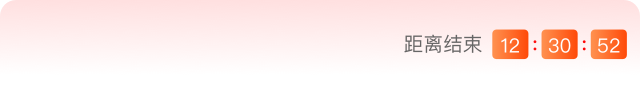
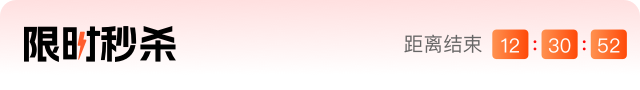
修改秒杀的显示

Changed region(s): [[0.0312, 0.2889, 0.2812, 0.6889]]

diff --git a/src/components/model-seckill/model-seckill-setting.vue b/src/components/model-seckill/model-seckill-setting.vue
@@ -1,15 +1,17 @@
 <template>
     <div class="auxiliary-line-setting">
         <template v-if="type == '1'">
-            <model-seckill-content :value="value.content" :styles="value.style"></model-seckill-content>
+            <model-seckill-content :value="form.content" :styles="form.style" @update:change-theme="change_theme"></model-seckill-content>
         </template>
         <template v-if="type == '2'">
-            <model-seckill-styles :value="value.style" :content="value.content"></model-seckill-styles>
+            <model-seckill-styles :value="form.style" :content="form.content"></model-seckill-styles>
         </template>
     </div>
 </template>
 <script setup lang="ts">
 import { cloneDeep } from 'lodash';
+import { online_url } from '@/utils';
+
 const props = defineProps({
     type: {
         type: String,
@@ -20,64 +22,127 @@ const props = defineProps({
         default: () => ({}),
     },
 });
-const default_data = {
-    topic_color: '',
-    topic_size: 12,
-    head_button_color: '',
-    head_button_size: 12,
-    end_text_color: '',
-    countdown_bg_color_list: [{ color: '', color_percentage: undefined }],
-    countdown_direction: '180deg',
-    countdown_color: '',
-    header_background_color_list: [{ color: '', color_percentage: undefined }],
-    header_background_direction: '180deg',
-    header_background_img_style: '2',
-    header_background_img_url: [],
-    shop_radius: {
-        radius: 8,
-        radius_top_left: 8,
-        radius_top_right: 8,
-        radius_bottom_left: 8,
-        radius_bottom_right: 8,
-    } ,
-    shop_img_radius: {
-        radius: 4,
-        radius_top_left: 4,
-        radius_top_right: 4,
-        radius_bottom_left: 4,
-        radius_bottom_right: 4,
-    },
-    shop_title_color: '',
-    shop_title_typeface: '',
-    shop_title_size: 12,
-    price_color: '',
-    original_price_color: '',
-    seckill_subscript_location: '',
-    seckill_subscript_text_color: '',
-    seckill_subscript_bg_color: '',
-    progress_bg_color: '',
-    progress_actived_color_list: [{ color: '', color_percentage: undefined }],
-    progress_actived_direction: '180deg',
-    progress_button_color: '',
-    progress_button_icon_color: '',
-    progress_text_color: '',
-    is_roll: true,
-    interval_time: 2,
-    rolling_fashion: 'translation',
-}
-const default_config = {
-    style: {
-        theme_1: {},
-        theme_2: {},
-        theme_3: {},
-        theme_4: {},
-        theme_5: {},
-    },
-};
+
+
+const new_url = ref('');
+let default_data:any = {};
+let default_config:any = {};
+onBeforeMount(async () => {
+    new_url.value = await online_url('/static/plugins/seckill/images/diy/').then(res => res);
+    default_data = {
+        content: {
+            topic_type: 'image',
+            topic_src: [{ id: 1, url: new_url.value + 'header-title.png', original: '标题', title: '标题', ext: '.png', type: 'img' }],
+            topic_text: '限时秒杀',
+        },
+        style: {
+            topic_color: '#fff',
+            topic_size: 18,
+            head_button_color: '#fff',
+            head_button_size: 12,
+            end_text_color: '#fff',
+            countdown_bg_color_list: [{ color: '#fff', color_percentage: undefined }],
+            countdown_direction: '180deg',
+            countdown_color: '#FF1818',
+            header_background_color_list: [{ color: '', color_percentage: undefined }],
+            header_background_direction: '180deg',
+            header_background_img_style: '2',
+            header_background_img_url: [{ id: 1, url: new_url.value + 'header-bg.png', original: '背景', title: '背景1', ext: '.png', type: 'img' }],
+            shop_radius: {
+                radius: 8,
+                radius_top_left: 8,
+                radius_top_right: 8,
+                radius_bottom_left: 8,
+                radius_bottom_right: 8,
+            } ,
+            shop_img_radius: {
+                radius: 4,
+                radius_top_left: 4,
+                radius_top_right: 4,
+                radius_bottom_left: 4,
+                radius_bottom_right: 4,
+            },
+            shop_title_color: '',
+            shop_title_typeface: '',
+            shop_title_size: 12,
+            price_color: '',
+            original_price_color: '',
+            seckill_subscript_location: '',
+            seckill_subscript_text_color: '',
+            seckill_subscript_bg_color: '',
+            progress_bg_color: '',
+            progress_actived_color_list: [{ color: '', color_percentage: undefined }],
+            progress_actived_direction: '180deg',
+            progress_button_color: '',
+            progress_button_icon_color: '',
+            progress_text_color: '',
+            is_roll: true,
+            interval_time: 2,
+            rolling_fashion: 'translation',
+        }
+    }
+    default_config = {
+        style: {
+            theme_1: {},
+            theme_2: {
+                content: {
+                    topic_type: 'image',
+                    topic_src: [{ id: 1, url: new_url.value + 'header-title-2.png', original: '标题2', title: '标题2', ext: '.png', type: 'img' }],
+                    button_status: '0',
+                },
+                style: {
+                    topic_color: '#000',
+                    end_text_color: '#666',
+                    header_background_color_list: [{ color: '#FFE0E0', color_percentage: undefined },{ color: '#FFEFEF', color_percentage: 50 }, { color: '#FFFFFF', color_percentage: undefined }],
+                    header_background_img_url: [],
+                    countdown_bg_color_list: [{ color: '#FF4909', color_percentage: undefined }, { color: '#FF8E4D', color_percentage: undefined }],
+                    countdown_direction: '180deg',
+                    countdown_color: '#fff',
+                }
+            },
+            theme_3: {
+                content: {
+                    topic_type: 'text',
+                    topic_src: [],
+                    button_status: '1',
+                },
+                style: {
+                    topic_color: '#000',
+                    head_button_color: '#000',
+                    end_text_color: '#666',
+                    header_background_color_list: [{ color: '#fff', color_percentage: undefined }],
+                    header_background_img_url: [],
+                    countdown_bg_color_list: [{ color: '#000', color_percentage: undefined }],
+                    countdown_direction: '180deg',
+                    countdown_color: '#fff',
+                }
+            },
+            theme_4: {
+                content: {
+                    topic_type: 'text',
+                    topic_src: [],
+                    button_status: '1',
+                },
+                style: {
+                    topic_color: '#000',
+                    head_button_color: '#000',
+                    end_text_color: '',
+                    header_background_color_list: [{ color: '#fff', color_percentage: undefined }],
+                    header_background_img_url: [],
+                    countdown_bg_color_list: [{ color: '#FF5000', color_percentage: undefined }],
+                    countdown_direction: '180deg',
+                    countdown_color: '#fff',
+                }
+            },
+        },
+    };
+})
 const form = ref(props.value);
 const change_theme = (val: string) => {
     if (val) {
-        form.value.style = Object.assign({}, form.value.style, cloneDeep(default_data), (<arrayIndex>default_config.style)[`theme_${Number(val)}`]);
+        form.value.style = Object.assign({}, form.value.style, cloneDeep(default_data.style), cloneDeep((<arrayIndex>default_config.style)[`theme_${Number(val)}`].style));
+        form.value.content = Object.assign({}, form.value.content, cloneDeep(default_data.content), cloneDeep((<arrayIndex>default_config.style)[`theme_${Number(val)}`].content));
+        console.log(form.value.content);     
     }
 };
 </script>

diff --git a/src/components/model-seckill/index.vue b/src/components/model-seckill/index.vue
@@ -2,18 +2,27 @@
     <div :style="style">
         <div class="flex-col gap-10">
             <div v-if="form.head_state == '1'" class="seckill-head flex-row align-c jc-sb oh" :style="seckill_head_style">
-                <div class="flex-row align-c">
+                <div :class="['flex-row align-c', {'gap-10': form.theme != '1', 'jc-sb w': form.theme == '2'}]">
                     <div class="seckill-title">
                         <image-empty v-if="form.topic_type == 'image'" v-model="form.topic_src[0]" error-img-style="width:2.1rem; height: 1rem;"></image-empty>
-                        <span v-else :style="`color: ${ new_style.topic_color };font-size: ${ new_style.topic_size }px;`">{{ form.topic_text }}</span>
+                        <span v-else :style="`color: ${ new_style.topic_color };font-size: ${ new_style.topic_size }px;line-height:21px;font-weight:600;`">{{ form.topic_text }}</span>
                     </div>
-                    <div class="pl-6 pr-6 cr-f">|</div>
-                    <span class="size-10 pr-4" :style="`color: ${ new_style.end_text_color }`">距离结束</span>
-                    <div class="flex-row gap-3 jc-c align-c">
+                    <div v-if="form.theme == '1'" class="pl-6 pr-6 cr-f">|</div>
+                    <div class="flex-row align-c gap-4">
+                        <span v-if="form.theme != '4'" class="size-10" :style="`color: ${ new_style.end_text_color }`">距离结束</span>
+                        <div class="flex-row gap-3 jc-c align-c" :style="[form.theme == '4'? `${ time_bg };padding: 0.3rem 0.4rem;border-radius: 1.1rem;` : '']">
+                        <img v-if="form.theme == '4'" class="seckill-head-icon radius-xs" :src="url_computer('time')" />
                         <template v-for="(item, index) in time_config" :key="item.key">
-                            <div class="time-config size-12" :style="`${ time_bg };color: ${ new_style.countdown_color }`">{{ item.value }}</div>
-                            <div v-if="[0, 1].includes(index)" :style="icon_time_check()">:</div>
+                            <template v-if="form.theme == '4'">
+                                <div class="size-12" :style="`color: ${ new_style.countdown_color }`">{{ item.value }}</div>
+                                <span v-if="[0, 1].includes(index)" class="colon" :style="`color: ${ new_style.countdown_color }`">:</span>
+                            </template>
+                            <template v-else>
+                                <div class="time-config size-12" :style="`${ time_bg };color: ${ new_style.countdown_color }`">{{ item.value }}</div>
+                                <span v-if="[0, 1].includes(index)" class="colon" :style="icon_time_check()">:</span>
+                            </template>
                         </template>
+                        </div>
                     </div>
                 </div>
                 <div v-if="form.button_status == '1'" class="flex-row align-c" :style="`color: ${ new_style.head_button_color }`">
@@ -65,18 +74,33 @@ const seckill_head_style = computed(() => {
 });
 
 const style = computed(() => common_styles_computer(props.value.style.common_style));
+
+const url_computer = (name: string) => {
+    const new_url = ref(new URL(`../../assets/images/components/model-seckill/${name}.png`, import.meta.url).href).value;
+    return new_url;
+};
 </script>
 <style lang="scss" scoped>
 .seckill-head {
     padding: 1.5rem 1.3rem;
     width: 100%;
     height: 5.1rem;
+    border-radius: 0.8rem 0.8rem 0 0;
     .seckill-title {
         height: 2.1rem;
     }
     .time-config {
         padding: 0.1rem 0.5rem;
         line-height: 1.7rem;
+        border-radius: 0.4rem;
     }
+}
+.seckill-head-icon {
+    width: 1.6rem;
+    height: 1.6rem;
+}
+.colon {
+    position: relative;
+    top: -0.1rem;
 }
 </style>

diff --git a/src/components/model-seckill/model-seckill-content.vue b/src/components/model-seckill/model-seckill-content.vue
@@ -28,14 +28,17 @@
                             <el-input v-model="form.topic_text" placeholder="请输入标题文字"></el-input>
                         </el-form-item>
                     </template>
-                    <el-form-item label="按钮状态">
-                        <el-radio-group v-model="form.button_status">
-                            <el-radio v-for="item in base_list.state_list" :key="item.value" :value="item.value">{{ item.name }}</el-radio>
-                        </el-radio-group>
-                    </el-form-item>
-                    <el-form-item v-if="form.button_status == '1'" label="按钮文字">
-                        <el-input v-model="form.button_text" placeholder="请输入按钮文字"></el-input>
-                    </el-form-item>
+                    <template v-if="form.theme != '2'">
+                        <el-form-item label="按钮状态">
+                            <el-radio-group v-model="form.button_status">
+                                <el-radio v-for="item in base_list.state_list" :key="item.value" :value="item.value">{{ item.name }}</el-radio>
+                            </el-radio-group>
+                        </el-form-item>
+                        <el-form-item v-if="form.button_status == '1'" label="按钮文字">
+                            <el-input v-model="form.button_text" placeholder="请输入按钮文字"></el-input>
+                        </el-form-item>
+                    </template>
+                    
                 </template>
             </card-container>
             <div class="divider-line"></div>
@@ -112,6 +115,10 @@ const state = reactive({
 });
 // 如果需要解构，确保使用toRefs
 const { form, data } = toRefs(state);
+
+watchEffect(() => {
+    form.value = props.value;
+});
 
 const base_list = {
     state_list: [

diff --git a/src/components/model-seckill/model-seckill-styles.vue b/src/components/model-seckill/model-seckill-styles.vue
@@ -9,7 +9,7 @@
                 <el-form-item label="按钮设置">
                     <color-text-size-group v-model:color="form.head_button_color" v-model:size="form.head_button_size" :type-list="['color', 'size']"></color-text-size-group>
                 </el-form-item>
-                <el-form-item label="距离结束">
+                <el-form-item v-if="data.theme != '4'" label="距离结束">
                     <color-picker v-model="form.end_text_color"></color-picker>
                 </el-form-item>
                 <el-form-item label="数字背景">

diff --git a/src/utils/index.ts b/src/utils/index.ts
@@ -67,7 +67,7 @@ export function gradient_handle(color_list: color_list[], direction: string, is_
             if (color_list.length == 1) {
                 container_common_styles += ` ${item.color_percentage || 0}%, ${item.color} 100%`;
             } else {
-                if (!isEmpty(item.color_percentage)) {
+                if (typeof item.color_percentage === "number") {
                     if (index == color_list.length - 1) {
                         container_common_styles += ` ${item.color_percentage}%`;
                     } else {

diff --git a/src/components/common/mult-color-picker/index.vue b/src/components/common/mult-color-picker/index.vue
@@ -79,7 +79,7 @@ const change_color = (index: number, color: string | null) => {
     update_value();
 };
 const change_color_percentage = (index: number, percentage: number | undefined) => {
-    color_list.value[index].color_percentage = percentage?.toString();
+    color_list.value[index].color_percentage = percentage;
     update_value();
 };
 const update_value = () => {

diff --git a/src/views/layout/components/main/default/seckill.ts b/src/views/layout/components/main/default/seckill.ts
@@ -72,7 +72,7 @@ const defaultSeckill: DefaultSeckill = {
     },
     style: {
         topic_color: '#fff',
-        topic_size: 14,
+        topic_size: 18,
         head_button_color: '#fff',
         head_button_size: 12,
         end_text_color: '#fff',
